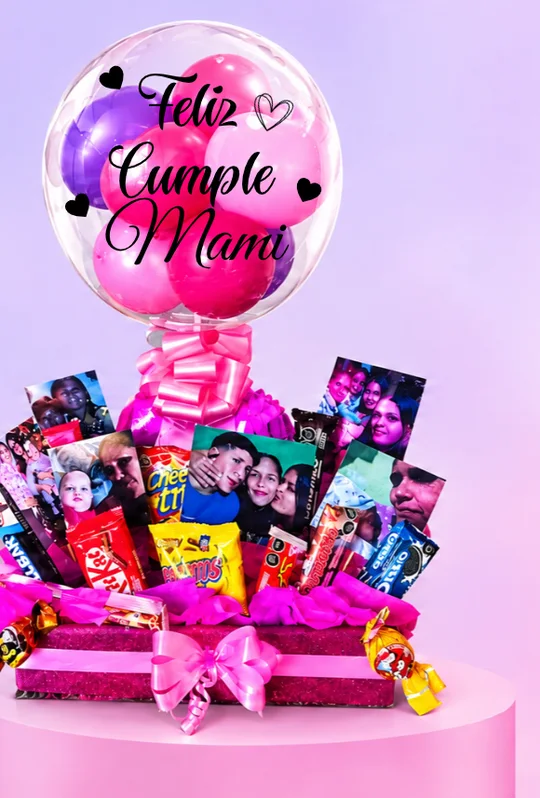
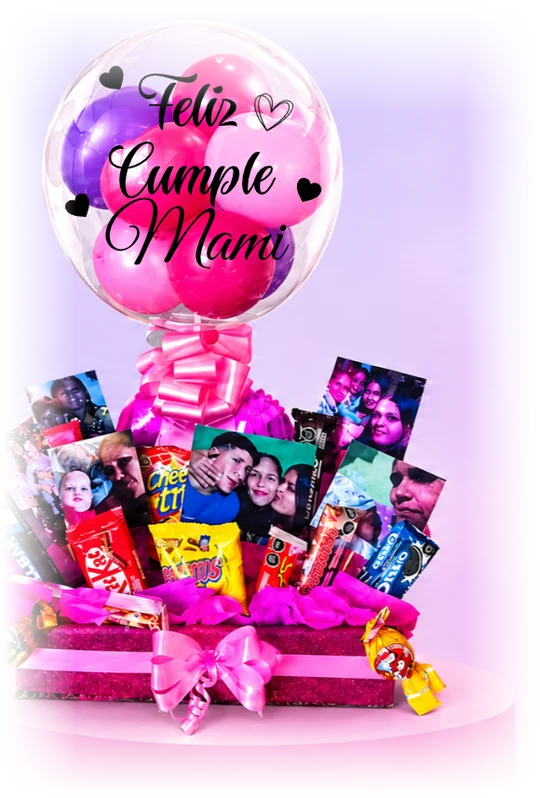
Club: bordes suaves dentro de las imágenes (Safari no aplicaba bien las máscaras CSS)
Claude-Session: https://claude.ai/code/session_01TXTfbLDM4MWkjPWABfvo5a

diff --git a/src/styles/home.css b/src/styles/home.css
@@ -397,7 +397,7 @@
 /* Club Celebra: tarjeta con foto de regalos */
 .home .h-clubhero{position:relative;border-radius:28px;overflow:hidden;background:linear-gradient(100deg,#d9cbf9 0%,#e9d3f6 50%,#f7cfe4 100%);display:grid;grid-template-columns:54% 46%;align-items:stretch}
 .home .h-clubhero-img{display:flex;align-items:flex-end}
-.home .h-clubhero-img img{width:100%;height:auto;display:block;-webkit-mask-image:linear-gradient(to bottom,transparent 0,#000 22%),linear-gradient(to left,transparent 0,#000 14%);-webkit-mask-composite:source-in;mask-image:linear-gradient(to bottom,transparent 0,#000 22%),linear-gradient(to left,transparent 0,#000 14%);mask-composite:intersect}
+.home .h-clubhero-img img{width:100%;height:auto;display:block}
 .home .h-clubhero-in{grid-column:2;position:relative;display:flex;flex-direction:column;gap:14px;padding:40px 40px 40px 8px;justify-content:center}
 .home .h-clubhero-in h2{font-size:clamp(28px,3.2vw,42px);color:var(--plum)}
 .home .h-clubhero-in > p{color:#3d3554;font-size:17px;max-width:46ch}
@@ -412,7 +412,7 @@
 .home .h-clubmini-fine{font-size:13px;color:#5c5470}
 @media (max-width:900px){
   .home .h-clubhero{display:flex;flex-direction:column;min-height:0;background:linear-gradient(180deg,#e2d4fb,#f6d3e8)}
-  .home .h-clubhero-img img{width:100%;height:auto;aspect-ratio:900/626;-webkit-mask-image:linear-gradient(to bottom,transparent,#000 18%,#000 82%,transparent);mask-image:linear-gradient(to bottom,transparent,#000 18%,#000 82%,transparent)}
+  .home .h-clubhero-img img{width:100%;height:auto;aspect-ratio:900/626}
   .home .h-clubhero-in{padding:6px 20px 24px}
 }
 @media (max-width:420px){.home .h-clubmini{grid-template-columns:1fr 1fr}.home .h-clubmini-q{grid-column:1/-1}}
@@ -444,7 +444,7 @@
 
 /* Página del Club: arte con regalos y tarjetas de ideas */
 .home .h-clubart{position:relative;width:100%;max-width:520px;justify-self:center;border-radius:28px;overflow:hidden;background:linear-gradient(160deg,#d9cbf9,#efd2f2 60%,#f7cfe4);padding-top:150px}
-.home .h-clubart img{display:block;width:100%;height:auto;-webkit-mask-image:linear-gradient(to bottom,transparent,#000 16%);mask-image:linear-gradient(to bottom,transparent,#000 16%)}
+.home .h-clubart img{display:block;width:100%;height:auto}
 .home .h-clubart .h-clubtag{top:22px;left:20px;transform:scale(.72);transform-origin:top left}
 .home .h-clubart .h-club10{top:24px;right:18px;width:112px;height:112px}
 .home .h-clubart .h-club10 b{font-size:42px}.home .h-clubart .h-club10 span{font-size:10.5px;letter-spacing:.02em}
@@ -461,6 +461,5 @@
 @media (max-width:980px){.home .h-ideas{grid-template-columns:1fr}}
 @media (max-width:900px){.home .h-page-hero:has(.h-clubart){grid-template-columns:1fr}.home .h-clubart{max-width:440px}}
 @media (max-width:520px){.home .h-idea{grid-template-columns:1fr}.home .h-idea-img img{width:62%;margin:0 auto}.home .h-idea-txt{padding:18px 20px 22px}.home .h-idea-txt .h-btn{align-self:stretch;width:auto}}
-.home .h-idea-img img{-webkit-mask-image:linear-gradient(to bottom,transparent,#000 12%),linear-gradient(to right,transparent,#000 18%,#000 82%,transparent);-webkit-mask-composite:source-in;mask-image:linear-gradient(to bottom,transparent,#000 12%),linear-gradient(to right,transparent,#000 18%,#000 82%,transparent);mask-composite:intersect}
 .home .h-clubart .h-clubtag{position:absolute;margin:0;height:150px}
 @media (max-width:520px){.home .h-clubart{padding-top:118px}.home .h-clubart .h-clubtag{transform:scale(.58);left:14px;top:18px}.home .h-clubart .h-club10{width:96px;height:96px;top:16px;right:12px}.home .h-clubart .h-club10 b{font-size:34px}.home .h-clubart .h-club10 span{font-size:9px;letter-spacing:0}}
